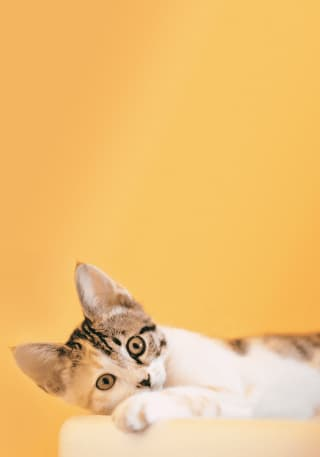
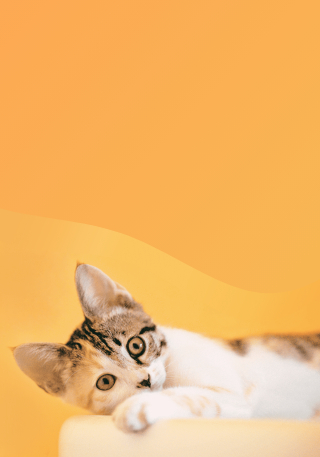
home-block-why

diff --git a/source/index.html b/source/index.html
@@ -14,9 +14,9 @@
     <link rel="stylesheet" href="css/style.min.css">
   </head>
   <body>
-    <!-- <div style="display: none">
+    <div style="display: none">
       <include src="build/img/sprite.svg"></include>
-    </div> -->
+    </div>
     <header class="page-header">
       <div class="page-header__container">
         <div class="page-header__wrapper-logo page-header__wrapper-logo--orange page-header__wrapper-logo--white">
@@ -73,7 +73,38 @@
         <p class="main__title-city">Санкт-Петербург</p>
         <h1 class="main__title-heading">Котейка</h1>
         <p class="main__subtitle">Уютная гостиница для котов и кошек</p>
-        <button class="button button--white">Забронировать</button>
+        <button class="button button--white" type="button">Забронировать</button>
+      </section>
+      <section class="why">
+        <h2 class="why__tytle">Почему мы&#63;</h2>
+        <div class="why__wrapper">
+          <ul class="why__list">
+            <li class="why__items">
+              <h3 class="why__text">Комфортная температура</h3>
+              <p class="why__desk">Во всех номерах поддерживается комфортная температура в пределах 23 - 25 градусов. В каждом номере можно дополнительно отрегулировать температуру. </p>
+            </li>
+            <li class="why__items">
+              <h3 class="why__text">Видеонаблюдение</h3>
+              <p class="why__desk">Мы предоставляем доступ в нашу систему. Вы сможете следить за своим питомцем со своего смартфона или компьютера.</p>
+            </li>
+            <li class="why__items">
+              <h3 class="why__text">Услуги Зоотакси</h3>
+              <p class="why__desk">Мы приедем за вашим питомцем в любой район Санкт-Петербурга.</p>
+            </li>
+            <li class="why__items">
+              <h3 class="why__text">Сбалансированное питание</h3>
+              <p class="why__desk">Вы можете привезти свой корм или доверить рацион своего питомца нашим профессионалам.</p>
+            </li>
+            <li class="why__items">
+              <h3 class="why__text">Ежедневные прогулки</h3>
+              <p class="why__desk">По вашему желанию мы выгуливаем вашего питомца два раза в день на специализированной закрытой территории.</p>
+            </li>
+            <li class="why__items">
+              <h3 class="why__text">Лучшие ветеринары</h3>
+              <p class="why__desk">В гостинице 24 часа дежурит ветеринарный врач который окажет любую помощь в случае необходимости.</p>
+            </li>
+          </ul>
+        </div>
       </section>
     </main>
     <footer class="page-footer">

diff --git a/source/sass/blocks/page-header.scss b/source/sass/blocks/page-header.scss
@@ -11,13 +11,6 @@
 
 .page-header__wrapper-logo {
   min-height: 62px;
-
-  // &--orange {
-  //   background-color: $color-seven;
-  // }
-  // &--white {
-  //   background-color: $color-one;
-  // }
 }
 
 .page-header__logo {
@@ -26,7 +19,7 @@
   display: block;
   width: 46px;
   height: 38px;
-  margin-top: 12px;
+  margin-top: 14px;
   padding: 0 15px;
 }
 
@@ -127,6 +120,57 @@
   margin-right: 20px;
 }
 
+.main__promo {
+  min-height: 457px;
+  margin-bottom: 50px;
+
+  text-align: center;
+
+  background-color: $color-seven;
+  background-image: url("../img/img-background-mobile.jpg");
+  background-repeat: no-repeat;
+  background-position: center;
+  background-size: 100% 100%;
+}
+
+.main__title-city {
+  margin: 0;
+  padding: 0;
+  padding-top: 47px;
+
+  font-style: normal;
+  font-weight: normal;
+  font-size: 12px;
+  line-height: inherit;
+  font-family: $font-stack;
+  color: inherit;
+}
+
+.main__title-heading {
+  margin: 0;
+  margin-bottom: 6px;
+  padding: 0;
+
+  font-style: normal;
+  font-weight: bold;
+  font-size: 44px;
+  line-height: 52px;
+  font-family: $font-second;
+  color: inherit;
+}
+
+.main__subtitle {
+  margin: 0;
+  margin-bottom: 37px;
+  padding: 0;
+
+  font-style: normal;
+  font-weight: 500;
+  font-size: 16px;
+  line-height: 19px;
+  font-family: $font-stack;
+  color: inherit;
+}
 
 // Закрытие меню только для mobile
 @media (max-width: $mobile-width-only) {

diff --git a/source/sass/blocks/button.scss b/source/sass/blocks/button.scss
@@ -1,0 +1,41 @@
+.button {
+  position: relative;
+
+  display: inline-block;
+  width: 206px;
+  min-height: 50px;
+  padding: 0;
+  padding-left: 30px;
+
+  font-style: normal;
+  font-weight: 600;
+  font-size: 16px;
+  line-height: 19px;
+  font-family: $font-stack;
+  text-align: left;
+  color: inherit;
+  text-decoration: none;
+
+  border: none;
+  border-radius: 25px;
+  box-shadow: none;
+  cursor: pointer;
+
+  &--white {
+    // position: relative;
+    background-color: $color-three;
+
+    &::before {
+      content: "";
+      position: absolute;
+      top: 7px;
+      right: 7px;
+
+      width: 36px;
+      height: 36px;
+
+      background-image: url("../img/icon-paw-black.svg");
+      background-repeat: no-repeat;
+    }
+  }
+}

diff --git a/source/sass/style.scss b/source/sass/style.scss
@@ -5,7 +5,7 @@
 @import "scaffolding.scss";           // СТИЛЬ С BODY
 
 // BLOCK index.html
-// @import "blocks/button.scss";        // Кнопка
+@import "blocks/button.scss";        // Кнопка
 @import "blocks/page-header.scss";   // Навигация
 // @import "blocks/offer.scss";         // Предложение
 // @import "blocks/catalog.scss";       // Каталог
@@ -20,4 +20,3 @@
 // // BLOCK catalog.html
 // @import "blocks/product.scss";        // Product
 // @import "blocks/addon.scss";          // Section form.
-
